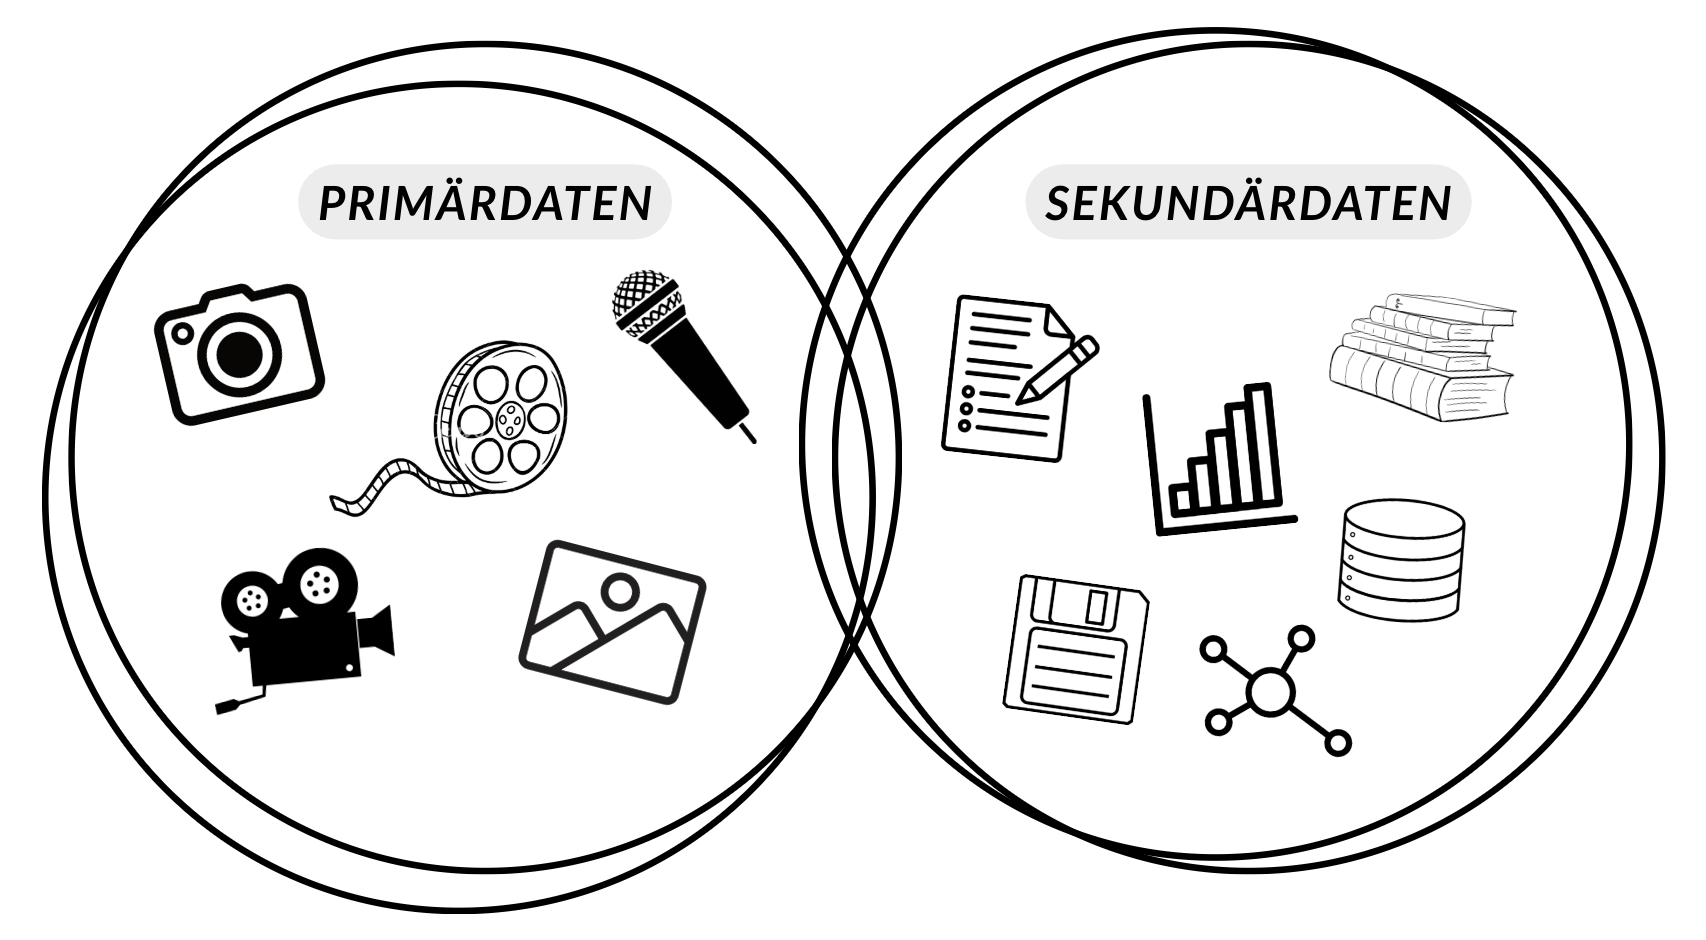
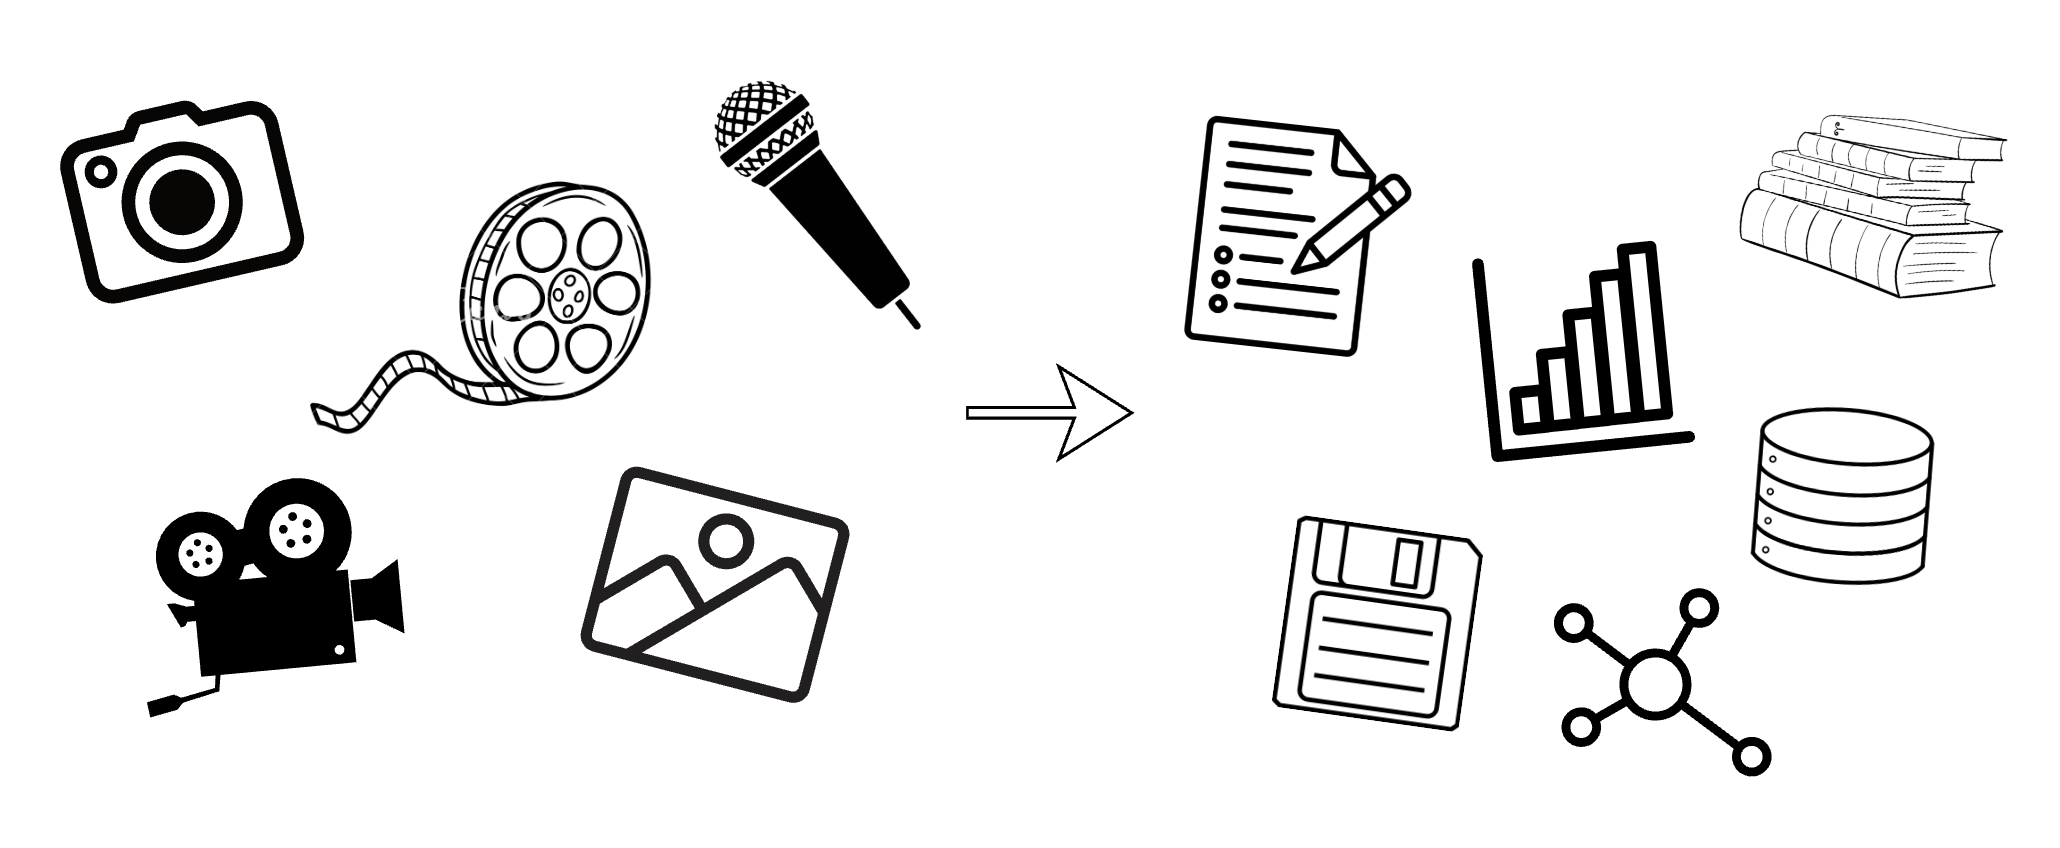
docs: add content and images to subchapter 03

diff --git a/03_metadaten/einführung_metadaten.md b/03_metadaten/einführung_metadaten.md
@@ -1,1 +1,102 @@
 # Einführung Metadaten
+
+```{figure} ../assets/03_metadaten/abb_k03_metadata.png
+---
+align: left
+width: 100%
+name: metadata
+---
+Metadata, © @Markus Winkler via Unsplash
+```
+Metadaten sind Daten über Daten. Oder, wie Johanna Drucker es treffend formuliert: "Think of metadata as the information about a resource or digital asset". Die Bandbreite der Erscheinungsformen von Metadaten reicht von sehr einfachen Beschreibungen, wie etwa den grundlegenden "Get Info" -Angaben zu einem digitalen Objekt, bis hin zu hochkomplexen Metadatenstrukturen mit mehreren Ebenen, Feldern und Hierarchien, wie sie insbesondere in Museen, kulturellen Einrichtungen und Archiven zur Erschließung und Verwaltung von Beständen genutzt werden.
+
+```{image} ../assets/03_metadaten/abb_k03_bandbreite_metadaten.png
+---
+align: center
+width: 70%
+name: bandbreite-metadaten
+---
+```
+<br>
+
+Als Bestandteil von Dateien und Dokumenten geben Metadaten im Kern zusätzliche, strukturierte Informationen an, die den eigentlichen (Forschungs-)Daten, Ressourcen oder Objekten, die sie beschreiben, beigefügt werden.  Häufig stehen die Metadaten aber auch als Platzhalter für das Objekt selbst, wie es beispielsweise in Bibliothekskatalogen der Fall ist. Hier wird das ursprüngliche Objekt (z.B. ein Buch oder Film) über Metadaten definiert und identifiziert, um Materialien zu lokalisieren und Informationen einzugrenzen. Auf diese Weise ermöglichen Metadaten die Beschreibung, Identifizierung und Klassifizierung von (digitalen) Objekten und kulturellen Artefakten.
+
+```{figure} ../assets/03_metadaten/abb_k03_kinemathek_katalog.png
+---
+align: center
+width: 80%
+name: kinemathek-katalog
+---
+Ergebnisansicht eines Bestandeintrags im Katalog der <a href="https://deutsche-kinemathek.bsz-bw.de/cgi-bin/koha/opac-detail.pl?biblionumber=21039" class="external-link" target="_blank">Deutschen Kinemathek Bibliothek</a>
+```
+Für die Publikation von Forschungsdaten sind Metadaten unerlässlich, da erst durch die ergänzenden Informationen Daten zuverlässig auffindbar, eindeutig identifizierbar und damit zitierfähig werden. Die zentrale Bedeutung von Metadaten in der digitalen Forschungspraxis hebt auch Drucker hervor: 
+> "Metadata is an essential aspect of any digital scholarship or research. Data have to be described and identified in order to be useful." 
+
+Die Charakterisierung von Daten über Metadaten ermöglicht es Forschenden somit, Daten in ihre jeweiligen Kontexte einzuordnen, ihre Herkunft und Struktur nachzuvollziehen und ihre Qualität zu bewerten.
+
+## Arten von Metadaten
+
+Es gibt verschiedene Typen von Metadaten, die hinsichtlich ihrer Art und Funktion unterschieden werden:
+<style>
+.table-clean {
+  border-collapse: collapse;
+  width: 100%;
+  font-size: 15px;
+}
+.table-clean th {
+  text-align: left;
+  padding: 6px 6px;
+  border-bottom: 1px solid #ccc;
+  font-weight: bold;
+}
+.table-clean td {
+  padding: 6px 6px;
+  border-bottom: 1px solid #eee;
+  vertical-align: top;
+}
+</style>
+
+<table class="table-clean">
+  <tr>
+    <th>Metadatentyp</th>
+    <th>Eigenschaften und Funktionen</th>
+    <th>Beispiele</th>
+  </tr>
+
+  <tr>
+    <td><strong>Deskriptive (inhaltiche) bzw. bibliographische Metadaten</strong></td>
+    <td>Helfen beim Auffinden oder Verstehen einer Ressource und bieten inhaltliche Eingrenzung </td>
+    <td>Titel, Autor, Beschreibung, Keywords, Publikationsdatum uvm. </td>
+  </tr>
+
+  <tr>
+    <td><strong>Administrative Metadaten</strong></td>
+    <td>
+      Helfen bei der Verwaltung und langfristigen Sicherung der Daten<br><br>
+      Unterarten:
+      <ul>
+        <li>Technische Metadaten</li>
+        <li>Metadaten zur Erhaltung</li>
+        <li>Rechtliche Metadaten</li>
+      </ul>
+    </td>
+    <td>Dateityp und -größe, Speicherort, Erstellungsdatum, Provenance, Zugriffsrechte, Lizenzen uvm.</td>
+  </tr>
+
+  <tr>
+    <td><strong>Strukturelle Metadaten</strong></td>
+    <td>Beschreiben die Anordnung  und Hierarchie eines Objekts oder einer Sammlung, d.h. die Beziehung der einzelnen Teile zueinander </td>
+    <td>Kapitelstruktur eines Buchs, sequentielle Abfolge eines Films, Verlinkungsstrukturen einer Website, Codelisten uvm.</td>
+  </tr>
+
+  <tr>
+    <td><strong>Prozessmetadaten</strong></td>
+    <td>Dokumentieren die Schritte und Methoden, die zur Entstehung und Verwendung von Daten angewendet werden</td>
+    <td>Verarbeitungsschritte, Tools, Transformationen, Workflows, Versionsverlauf uvm.</td>
+  </tr>
+</table>
+<br>
+
+Nicht immer sind die einzelnen Metadaten-Kategorien klar voneinander zu trennen. So kann es beispielsweise Überlappungen zwischen Prozessmetadaten und administrativen Metadaten geben, wenn es um technische Beschreibungen wie Dateiformat, Erstellungsdatum oder Migration geht. Nichtsdestotrotz ist eine grundlegende Charakterisierung der Funktionen und Eigenschaften verschiedener Metadatentypen im Forschungsprozess sehr hilfreich.
+
+## Exkurs: Markup-Sprachen

diff --git a/02_forschungsdaten_fdm/forschungsdaten_fiwi.md b/02_forschungsdaten_fdm/forschungsdaten_fiwi.md
@@ -17,7 +17,7 @@ Die folgende Übersicht bietet eine grundlegende Einordnung filmwissenschaftlich
 ```{image} ../assets/02_forschungsdaten_fdm/abb_k02_primär_sekundärdaten.png
 ---
 align: center
-width: 75%
+width: 90%
 name: primär-sekundärdaten
 ---
 ```
